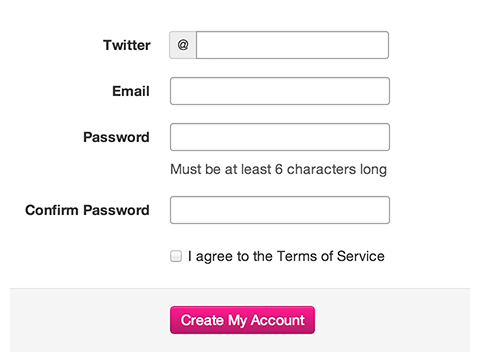
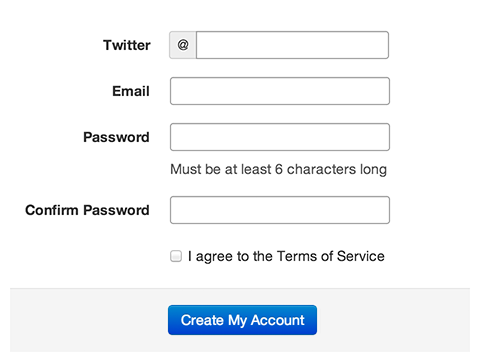
more README tweaks. updating screenshots to use standard 'primary' color

Changed region(s): [[0.3423, 0.8204, 0.6846, 0.942]]

diff --git a/README.md b/README.md
@@ -36,7 +36,7 @@ Here's a quick example to get you started:
   <%= f.alert_message "Please fix the errors below." %>
 
   <%= f.text_field :twitter_username, prepend: '@', label: 'Twitter' %>
-  <%= f.text_field :email, autofocus: :true %>
+  <%= f.text_field :email %>
   <%= f.password_field :password, help: 'Must be at least 6 characters long' %>
   <%= f.password_field :password_confirmation, label: 'Confirm Password' %>
   <%= f.control_group :terms do %>
@@ -95,8 +95,8 @@ This gem wraps the following Rails form helpers:
 * datetime_select
 * check_box
 * radio_button
-* primary
-* secondary
+
+You can use the helpers like you're used to:
 
 ```erb
 <%= bootstrap_form_for(@user) do |f| %>
@@ -127,7 +127,7 @@ You can display checkboxes and radios `inline` like this:
 
 ```erb
 <%= f.control_group :skill_level, label: { text: 'Skill' } do %>
-  <%= f.radio_button :skill_level, 0, label: 'Novice', checked: true, inline: true %>
+  <%= f.radio_button :skill_level, 0, label: 'Novice', inline: true %>
   <%= f.radio_button :skill_level, 1, label: 'Intermediate', inline: true %>
   <%= f.radio_button :skill_level, 2, label: 'Advanced', inline: true %>
 <% end %>
@@ -155,7 +155,7 @@ To add help text, use the `help` option, which will place it
 to the right of the field:
 
 ```erb
-<%= f.password_field :password, help: 'Must be at least 6 characters in length' %>
+<%= f.password_field :password, help: 'Must be at least 6 characters long' %>
 ```
 
 To place help text underneath a field, pass the option `help:
@@ -163,7 +163,7 @@ To place help text underneath a field, pass the option `help:
 
 ```erb
 <%= bootstrap_form_for(@user, help: :block) do |f| %>
-  <%= f.password_field :password, help: 'Must be at least 6 characters in length' %>
+  <%= f.password_field :password, help: 'Must be at least 6 characters long' %>
 <% end %>
 ```
 
@@ -179,7 +179,7 @@ You can prepend an input file with the `prepend` option:
 
 This gem provides a few different options for submit buttons.
 
-You can use the `actions` helper, which wraps the buttons in a
+You can use the `actions` helper, which wraps your submit button in a
 `.form-actions` class.
 
 ```erb
@@ -194,7 +194,7 @@ Here's a simple `primary` button (this applies the `.btn` and `.btn-primary` cla
 <%= f.primary "Create My Account" %>
 ```
 
-A `secondary` submit button (applies just the `.btn` class):
+Here's a `secondary` submit button (applies just the `.btn` class):
 
 ```erb
 <%= f.secondary "Create My Account" %>
@@ -236,8 +236,10 @@ To specify a label that isn't linked to an element you can do this:
 ### Validation Errors
 
 When a validation error is triggered, the field will be outlined and the
-error will be displayed next to the field. Rails normally wraps fields
-in a div (field_with_errors), but this behavior is suppressed when `bootstrap_form_for` is called.
+error will be displayed next to the field (or below it if you're using
+block-style help text). Rails normally wraps fields in a div
+(field_with_errors), but this behavior is suppressed when
+`bootstrap_form_for` is called.
 
 To display an error message wrapped in `.alert` and `.alert-error`
 classes, you can use the `alert_message` helper:
